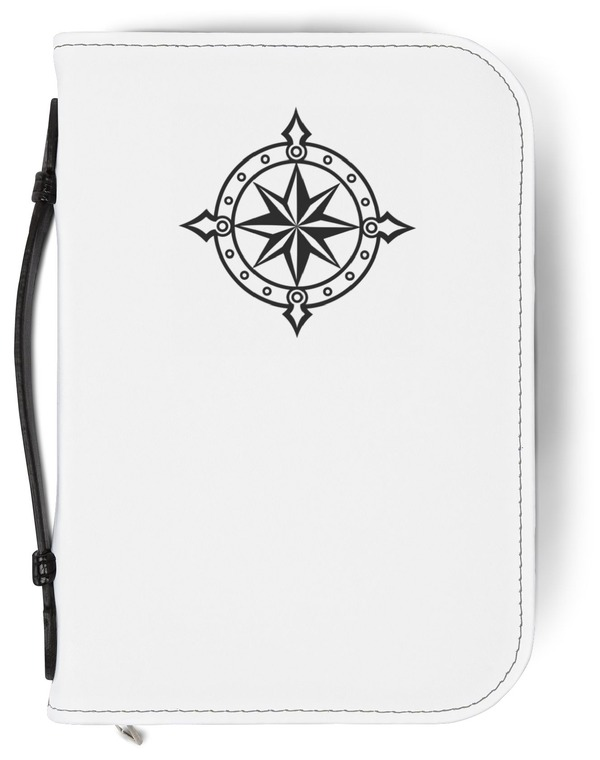
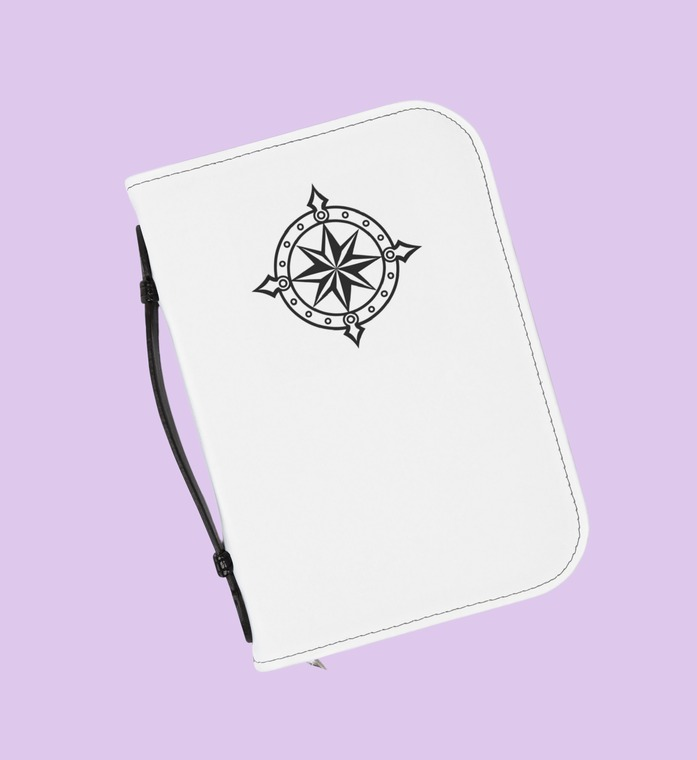
Ordination: new lavender-ground photo for the Religious Text Cover

diff --git a/ordination.html b/ordination.html
@@ -461,7 +461,7 @@ nav a.nav-record:hover{background:var(--gold-light);color:var(--purple-deep);}
 
         <div class="addon-row">
           <div class="addon-label">
-            <img class="addon-thumb" style="background:#fff" src="assets/img/cover-thumb.jpg" alt="White PU leather religious text cover with the church emblem on the front" loading="lazy">
+            <img class="addon-thumb" src="assets/img/cover-thumb.jpg" alt="White PU leather religious text cover with the church emblem on the front" loading="lazy">
             <div class="addon-name">Religious Text Cover &mdash; $49</div>
           </div>
           <div class="addon-choices">
